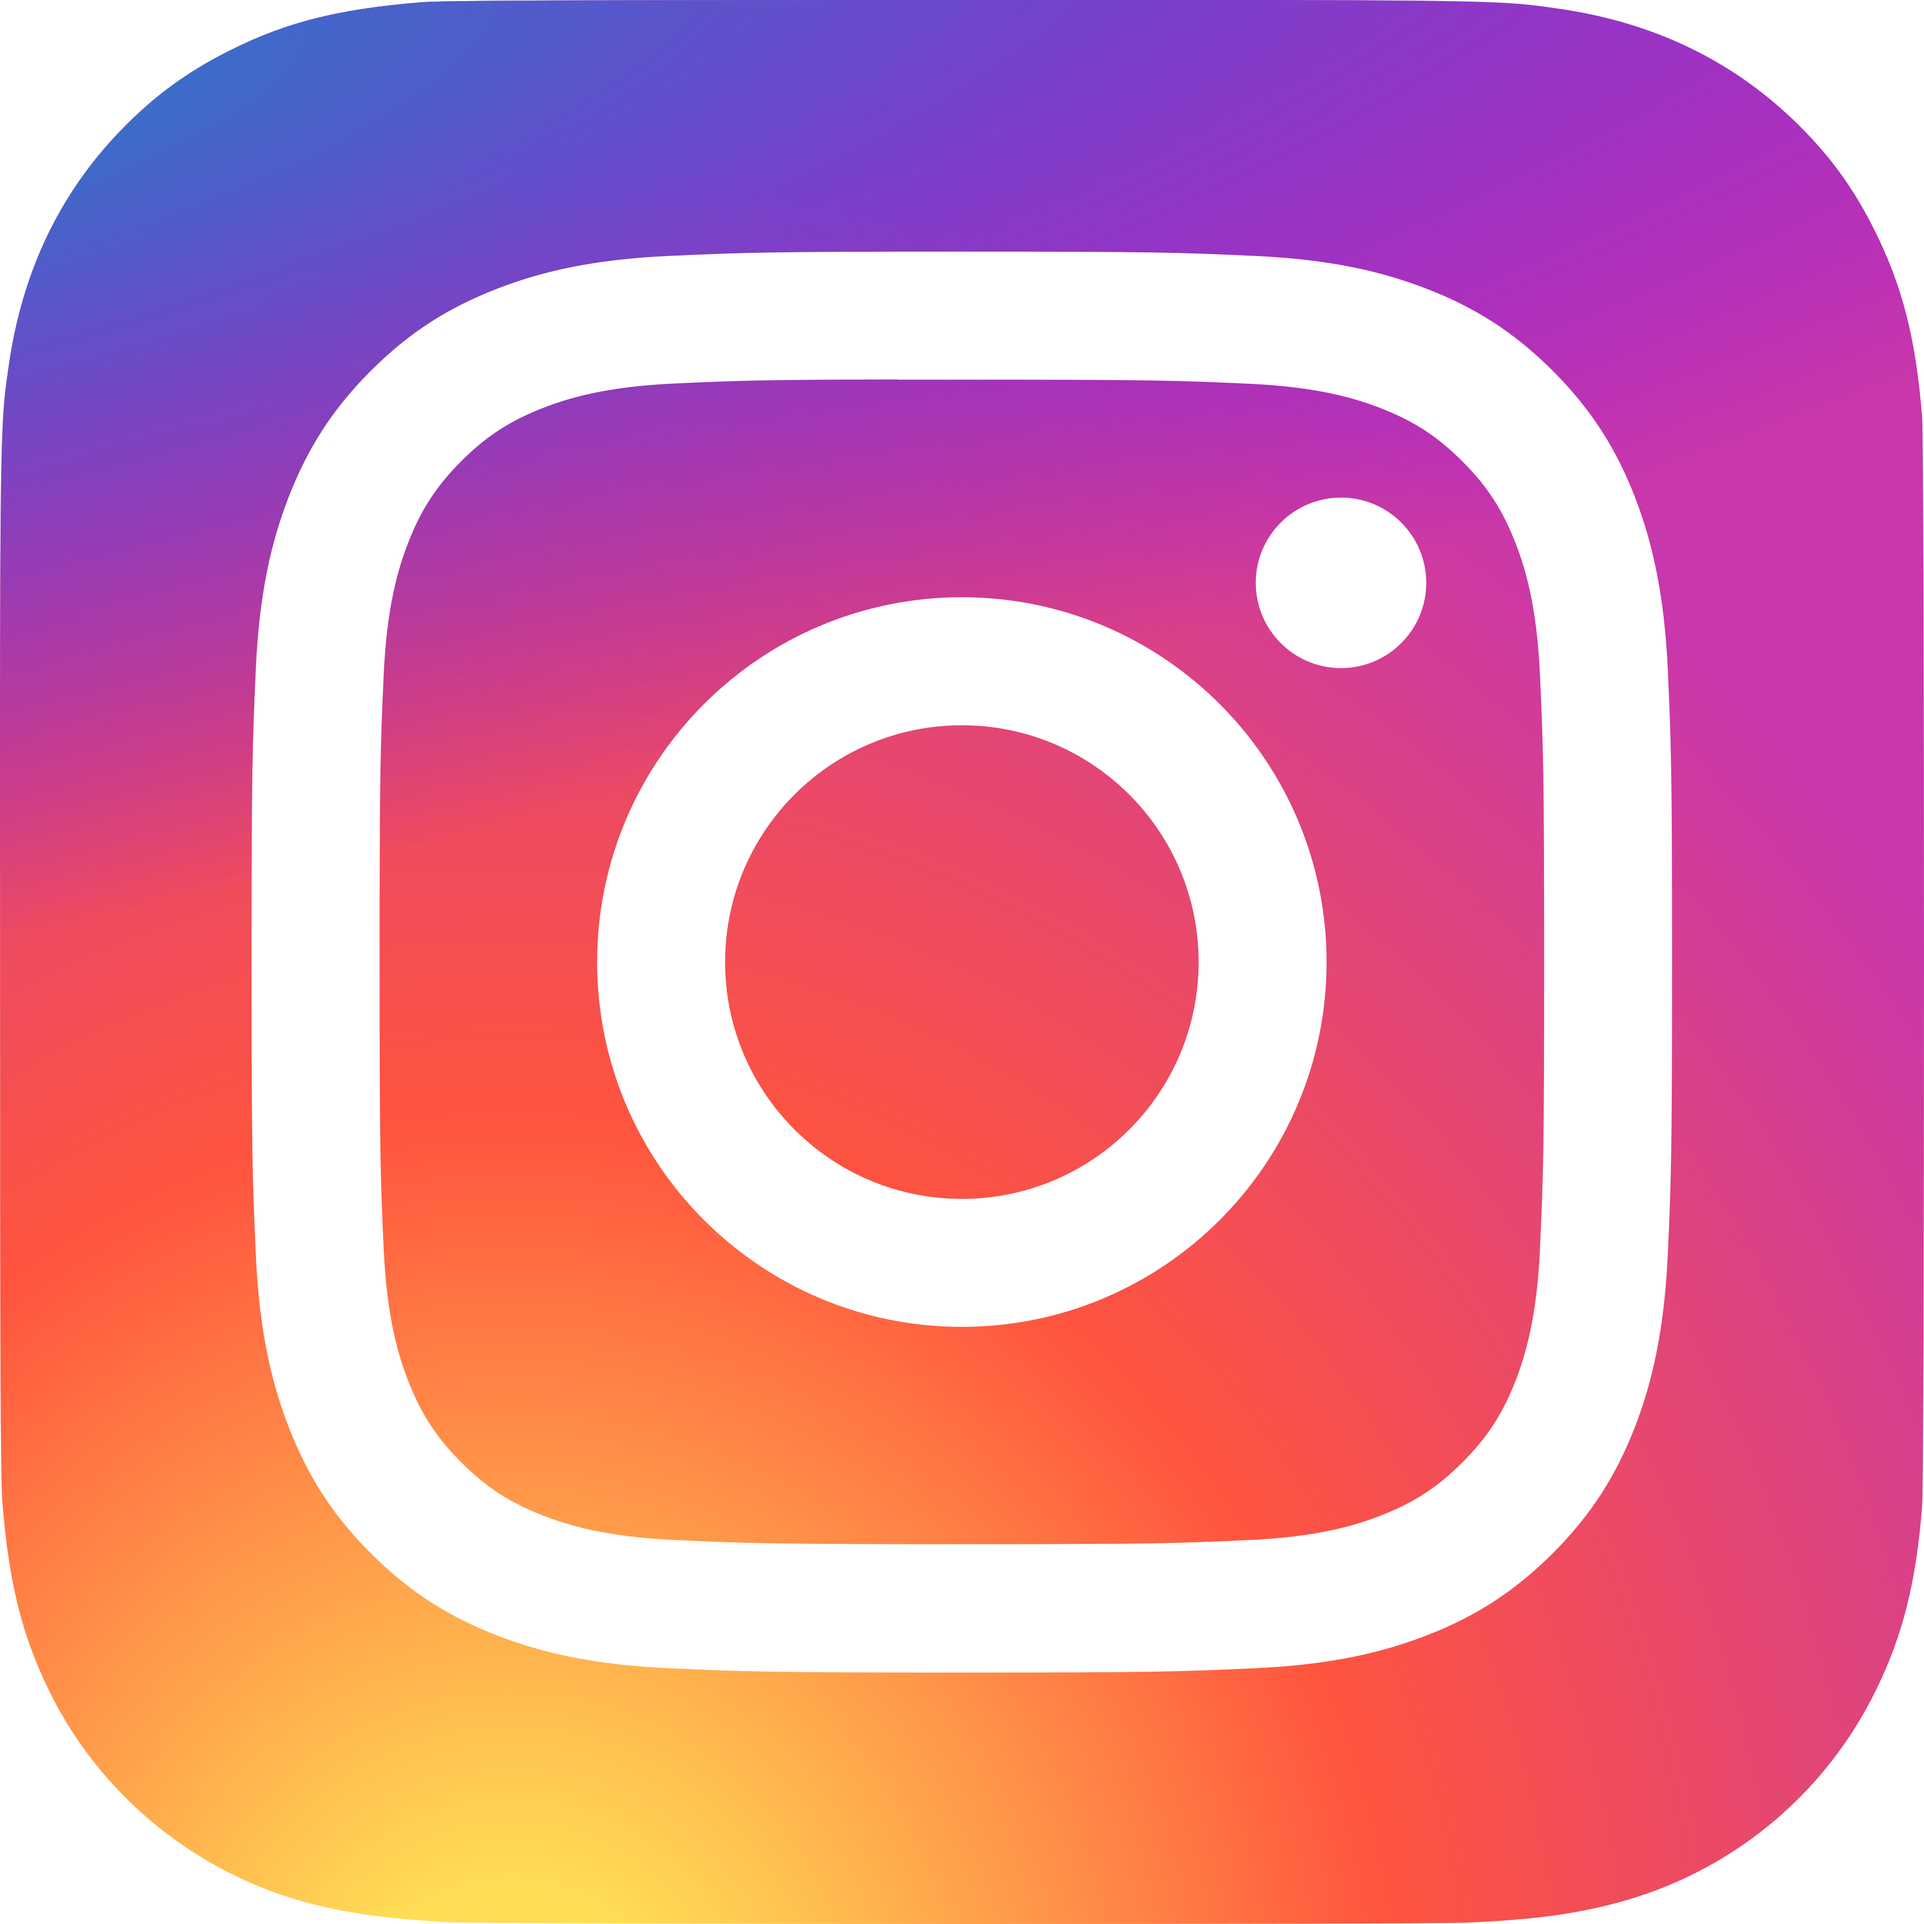
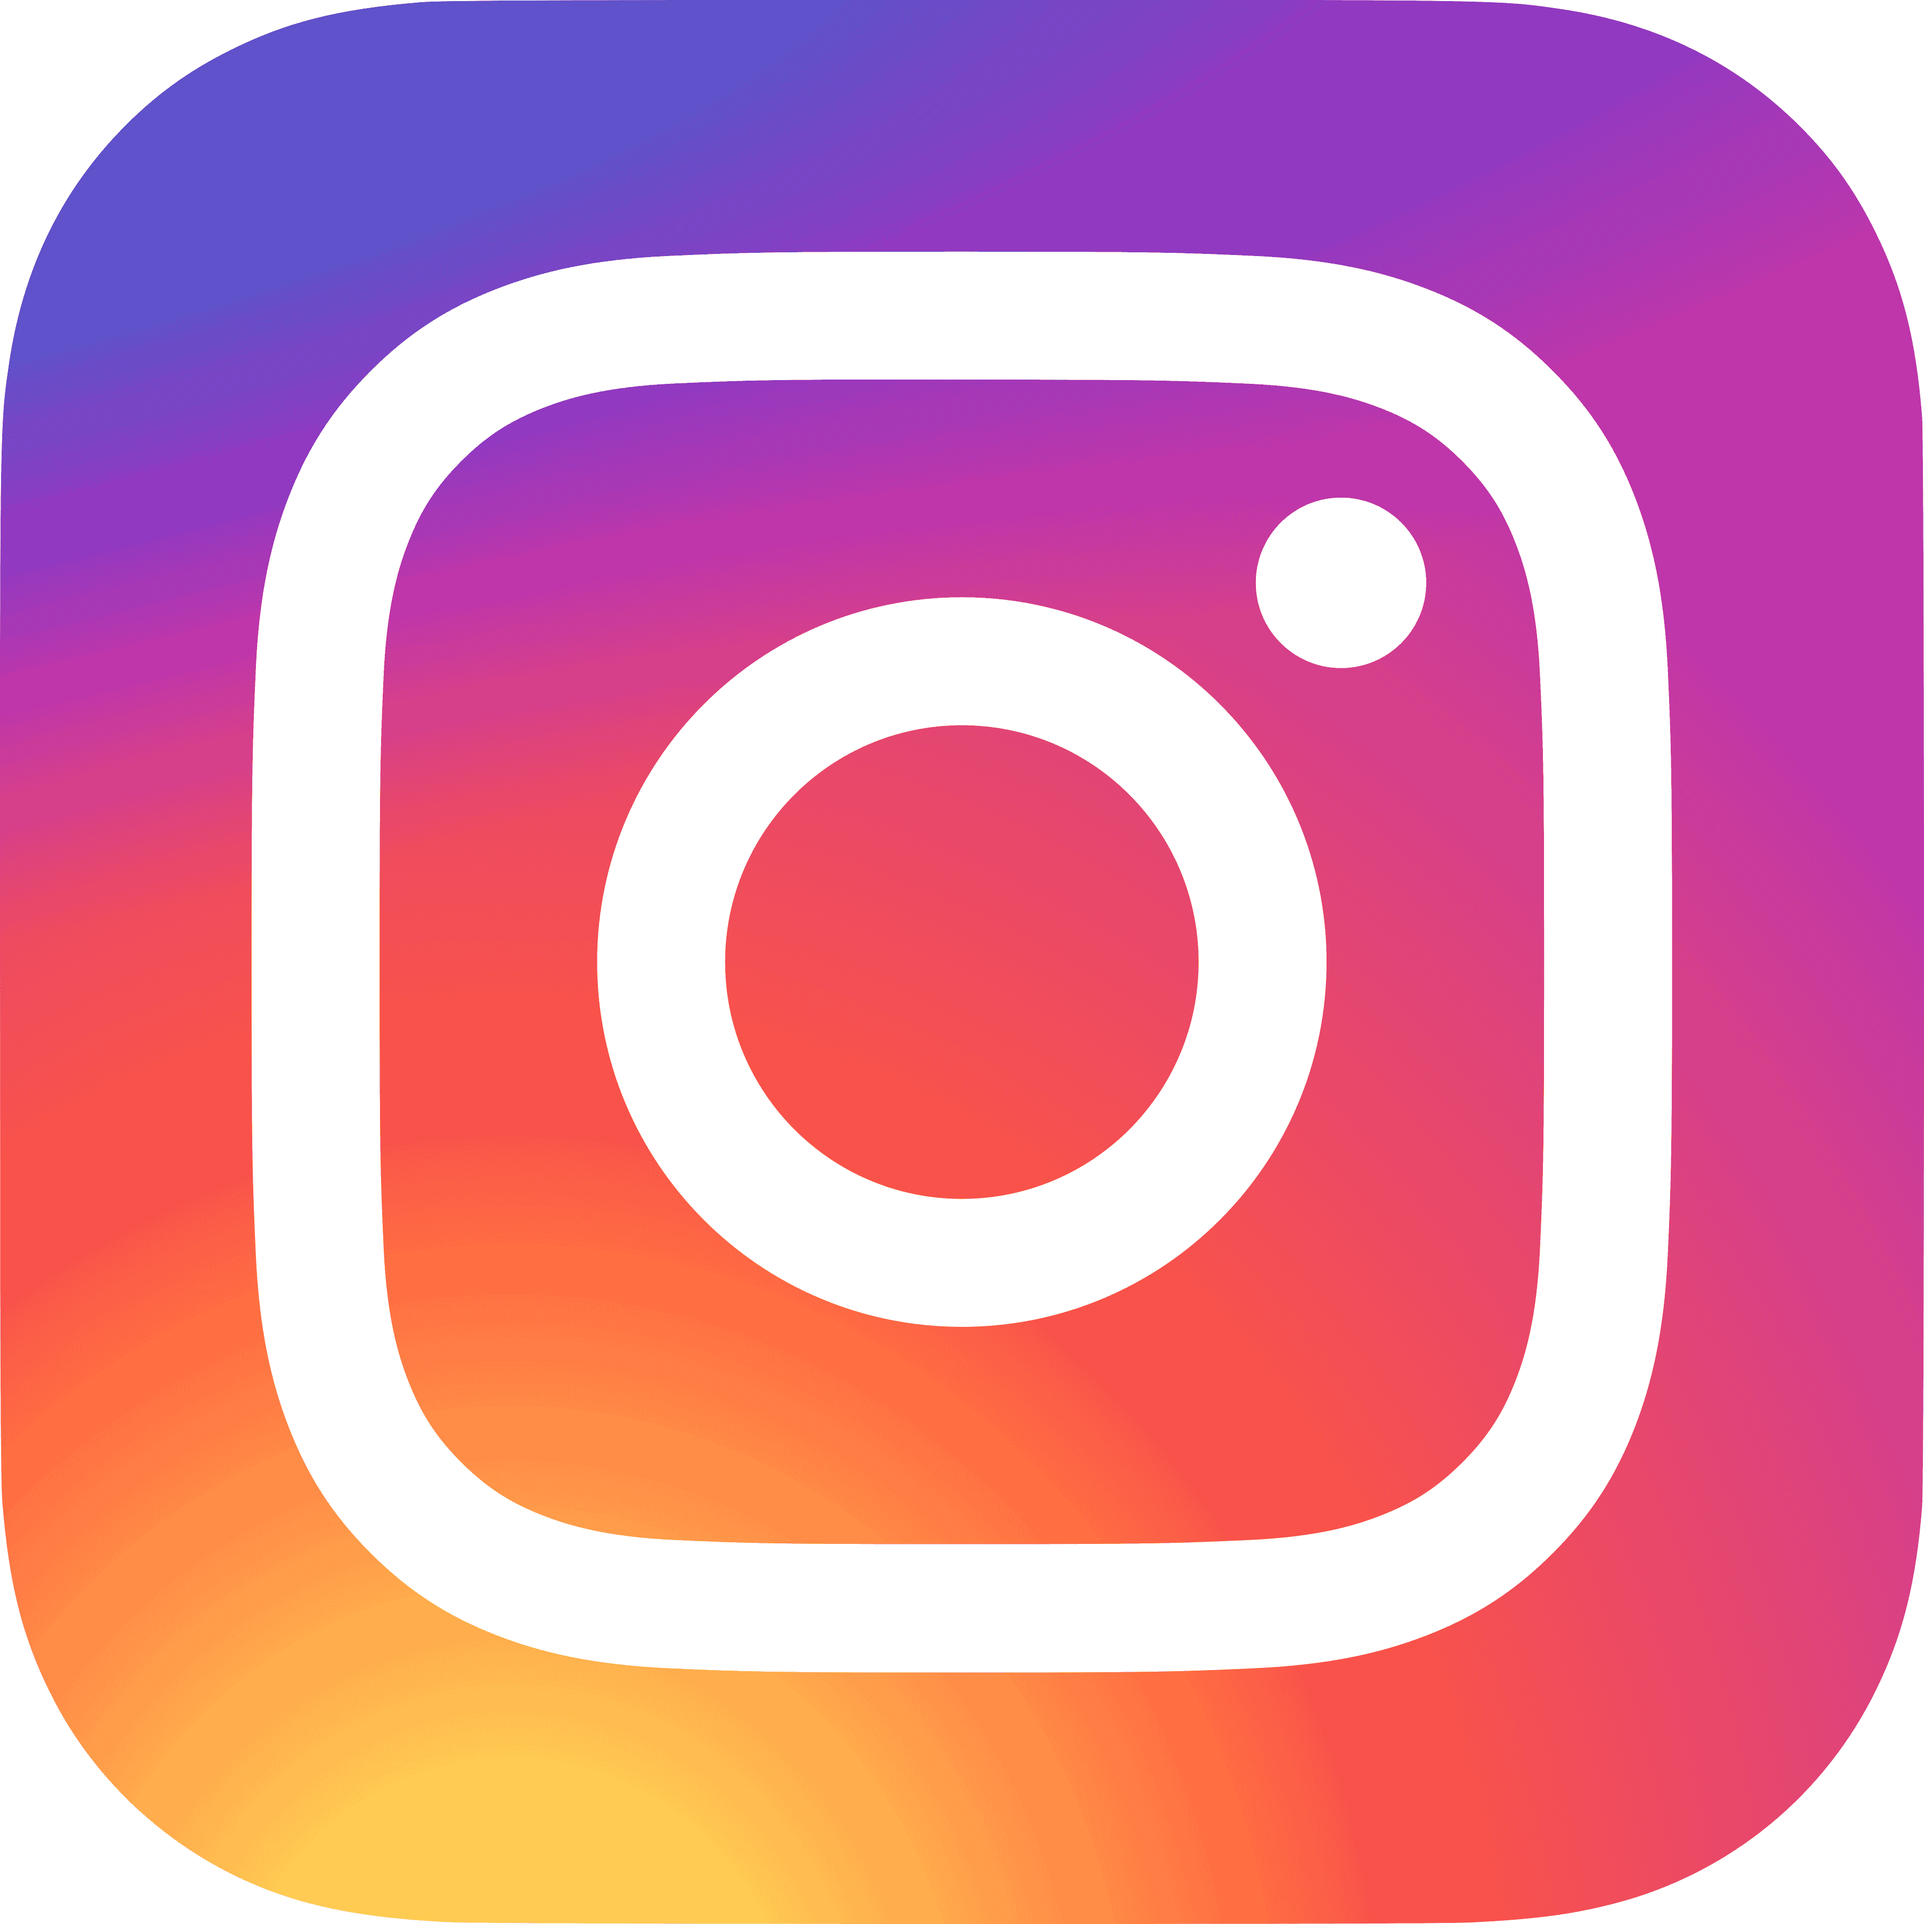
added srcset for some images with very high quality. modified markdown.

diff --git a/index.html b/index.html
@@ -84,7 +84,7 @@
                 <div id="socials">
                     <a href="https://www.youtube.com/@ImagineDragons" target="_blank" rel="noopener noreferrer"><img src="imgs/youtube.png" alt="Imagine Dragons Youtube Channel"></a> <!--target="_blank" opens link in another tab-->
                     <a href="https://www.tiktok.com/@imaginedragons" target="_blank" rel="noopener noreferrer"><img src="imgs/tiktok.png" alt="Imagine Dragons Tiktok Channel"></a> <!--rel="noopener noreferrer" adds more security so that the opened tab cannot reference this website-->
-                    <a href="https://www.instagram.com/imaginedragons/" target="_blank" rel="noopener noreferrer"><img src="imgs/instagram.png" alt="Imagine Dragons Instagram Channel"></a>
+                    <a href="https://www.instagram.com/imaginedragons/" target="_blank" rel="noopener noreferrer"><img src="imgs/instagram.png" srcset="imgs/instagram.png 1x, imgs/instagramHigh.png 2x" alt="Imagine Dragons Instagram Channel"></a>
                     <a href="https://www.facebook.com/ImagineDragons/" target="_blank" rel="noopener noreferrer"><img src="imgs/facebook.png" alt="Imagine Dragons Facebook Channel"></a>
                     <a href="https://music.apple.com/us/artist/imagine-dragons/358714030" target="_blank" rel="noopener noreferrer"><img src="imgs/apple.png" alt="Imagine Dragons Apple Music Channel"></a>
                     <a href="https://open.spotify.com/artist/53XhwfbYqKCa1cC15pYq2q?si=5bR3hBdqST-OJcTDtW3gxg" target="_blank" rel="noopener noreferrer"><img src="imgs/spotify.png" alt="Imagine Dragons Spotify Channel"></a>
@@ -162,7 +162,7 @@
                 <h1 id="Accessories">Accessories</h1>
             </div>
             <div id="merchShop">
-                <a href=#merchCheckout><img src="imgs/shoppingBag.png" alt="Shopping bag icon"></a>
+                <a href=#merchCheckout><img src="imgs/shoppingBag.png" srcset="imgs/shoppingBag.png 1x, imgs/shoppingBagHigh.png 2x" alt="Shopping bag icon"></a>
                 <div class="tshirt">
                     <img src="imgs/merch/tshirt/feelItInMyBonesSkeletonTee.png" alt="Feel It In My Bones Skeleton Tee">
                     <p>Feel It In My Bones Skeleton Tee<br>$30</p>

diff --git a/README.md b/README.md
@@ -69,11 +69,12 @@ This website is made for Imagine Dragons, a rock band. Therefore, I felt that th
     2. Try to click each sub tab and verify that the items are categorised and those not in the category are hidden
 
 ### Views on different devices and browsers
-On different browsers, the concert details, payment of concert tickets, merch and buttons may look slightly different. The website works on different screen sizes down to 320px width, therefore it works on almost all phones even small, old phones. On screens with a width of 600px and lower will have the elements slightly enlarged and stack in columns instead of rows for most sections.
+On different browsers, the concert details, payment of concert tickets, merch and buttons may look slightly different. The website works on different screen sizes down to 320px width, therefore it works on almost all phones even small, old phones. On screens with a width of 600px and lower will have the elements slightly enlarged and stack in columns instead of rows for most sections. Some images will also have lower quality and file size based on the device's DPR (Device Pixel Ratio).
 
 ### Problems
 1. Embeding Youtube video but it is not playable due to creator not allowing embedding. After searching mulitple videos and none working. I recorded the video and uploaded to my own Youtube channel. However, Youtube still detects the similarities and will not work. Hence, I saved the videos locally to play.
 2. Using local videos made it not possible to remove the progress bar of the video when it is not hovered.
+3. pushing commits of large video files to github will not work. I downloaded git lfs (large file size) to help me push my video commits.
 
 ## Credits
 ### Content
